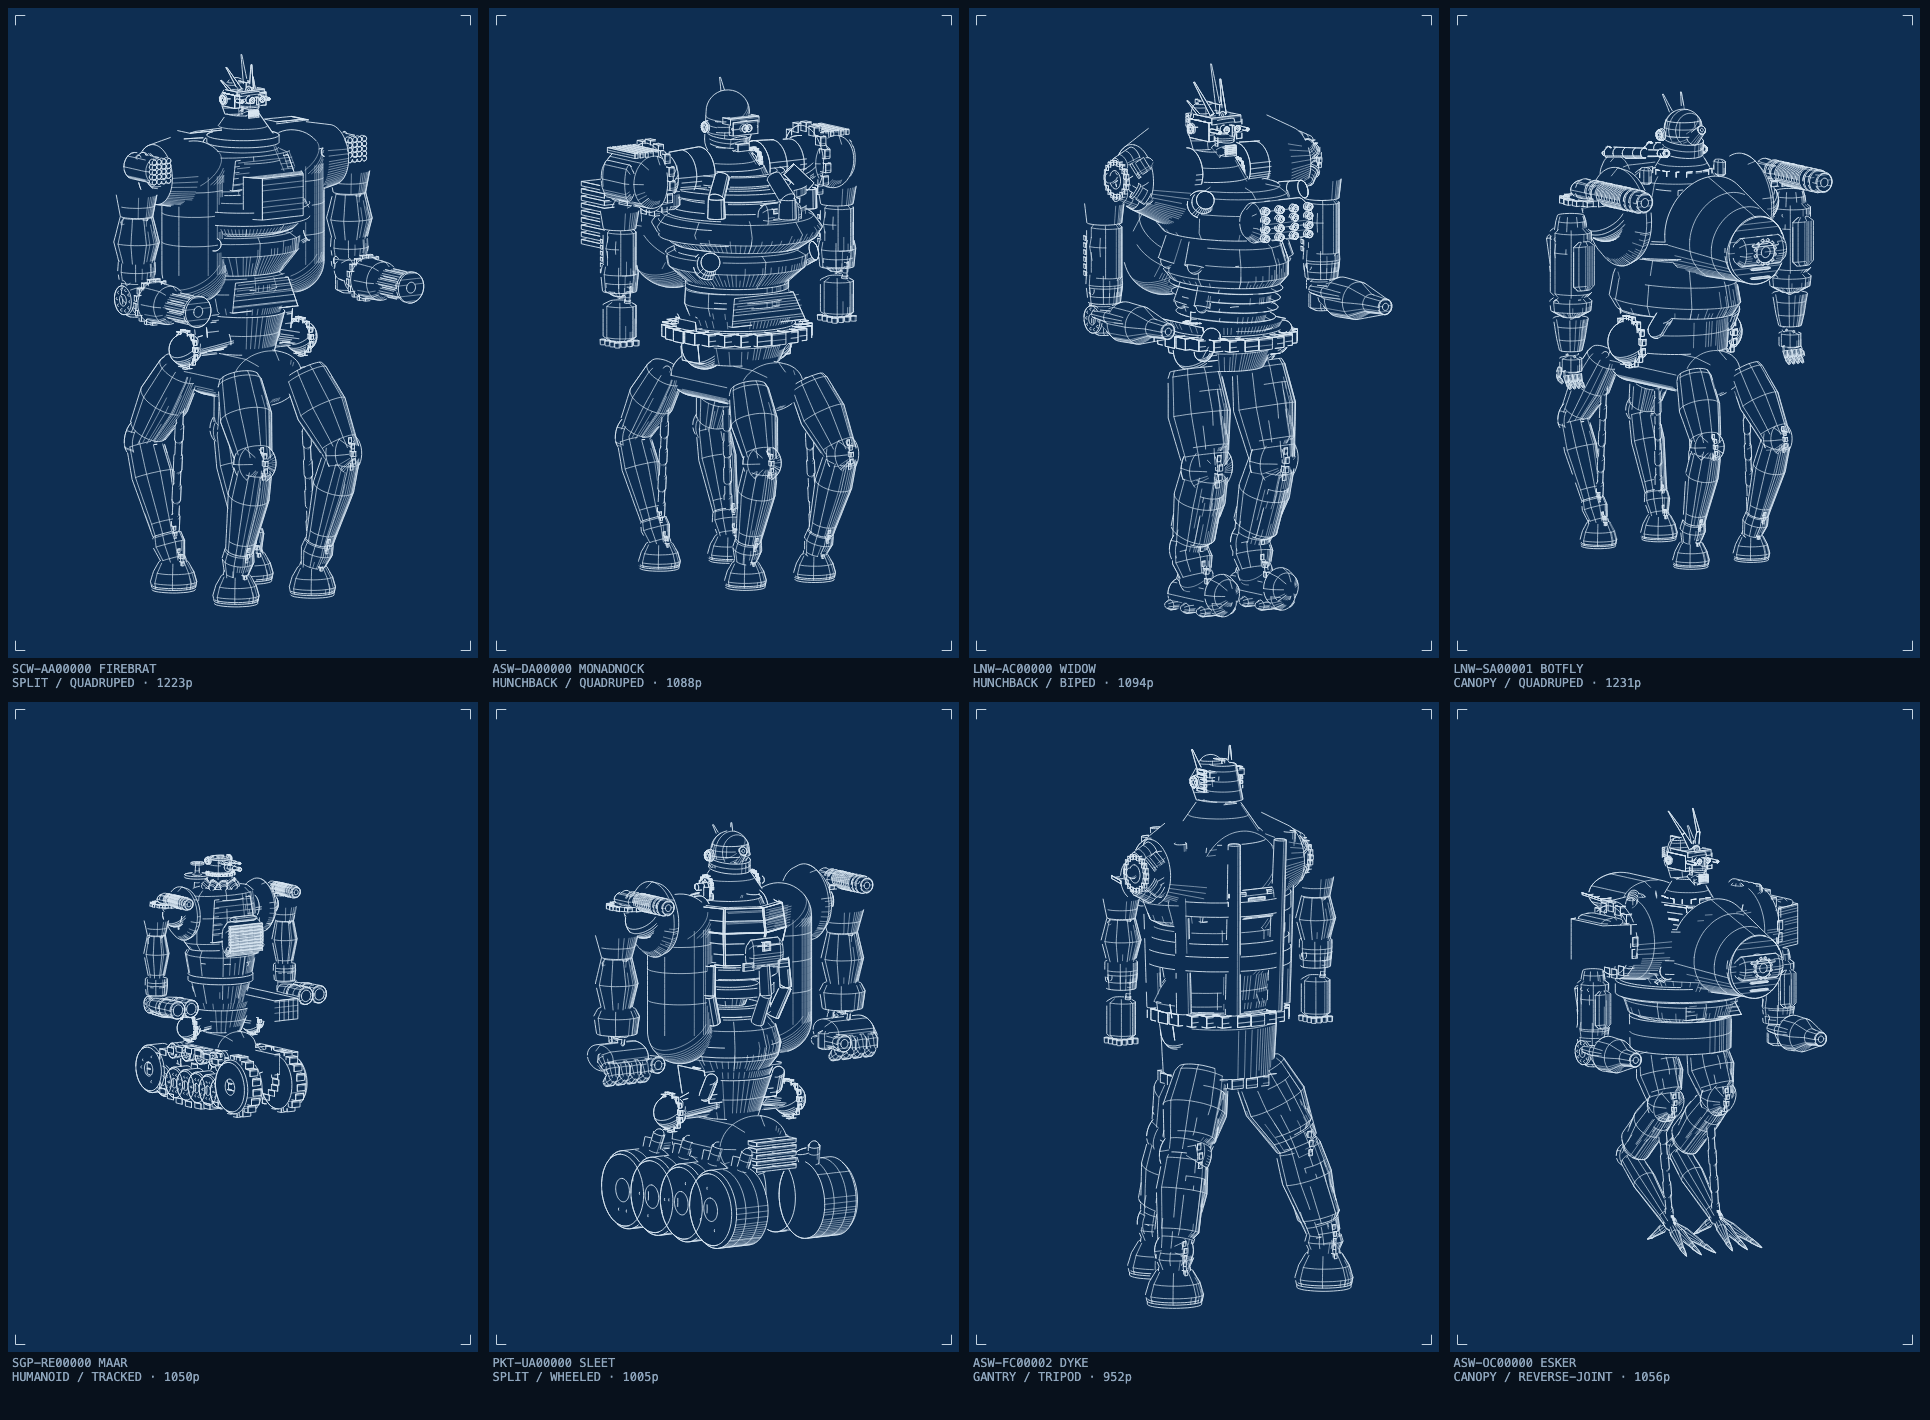
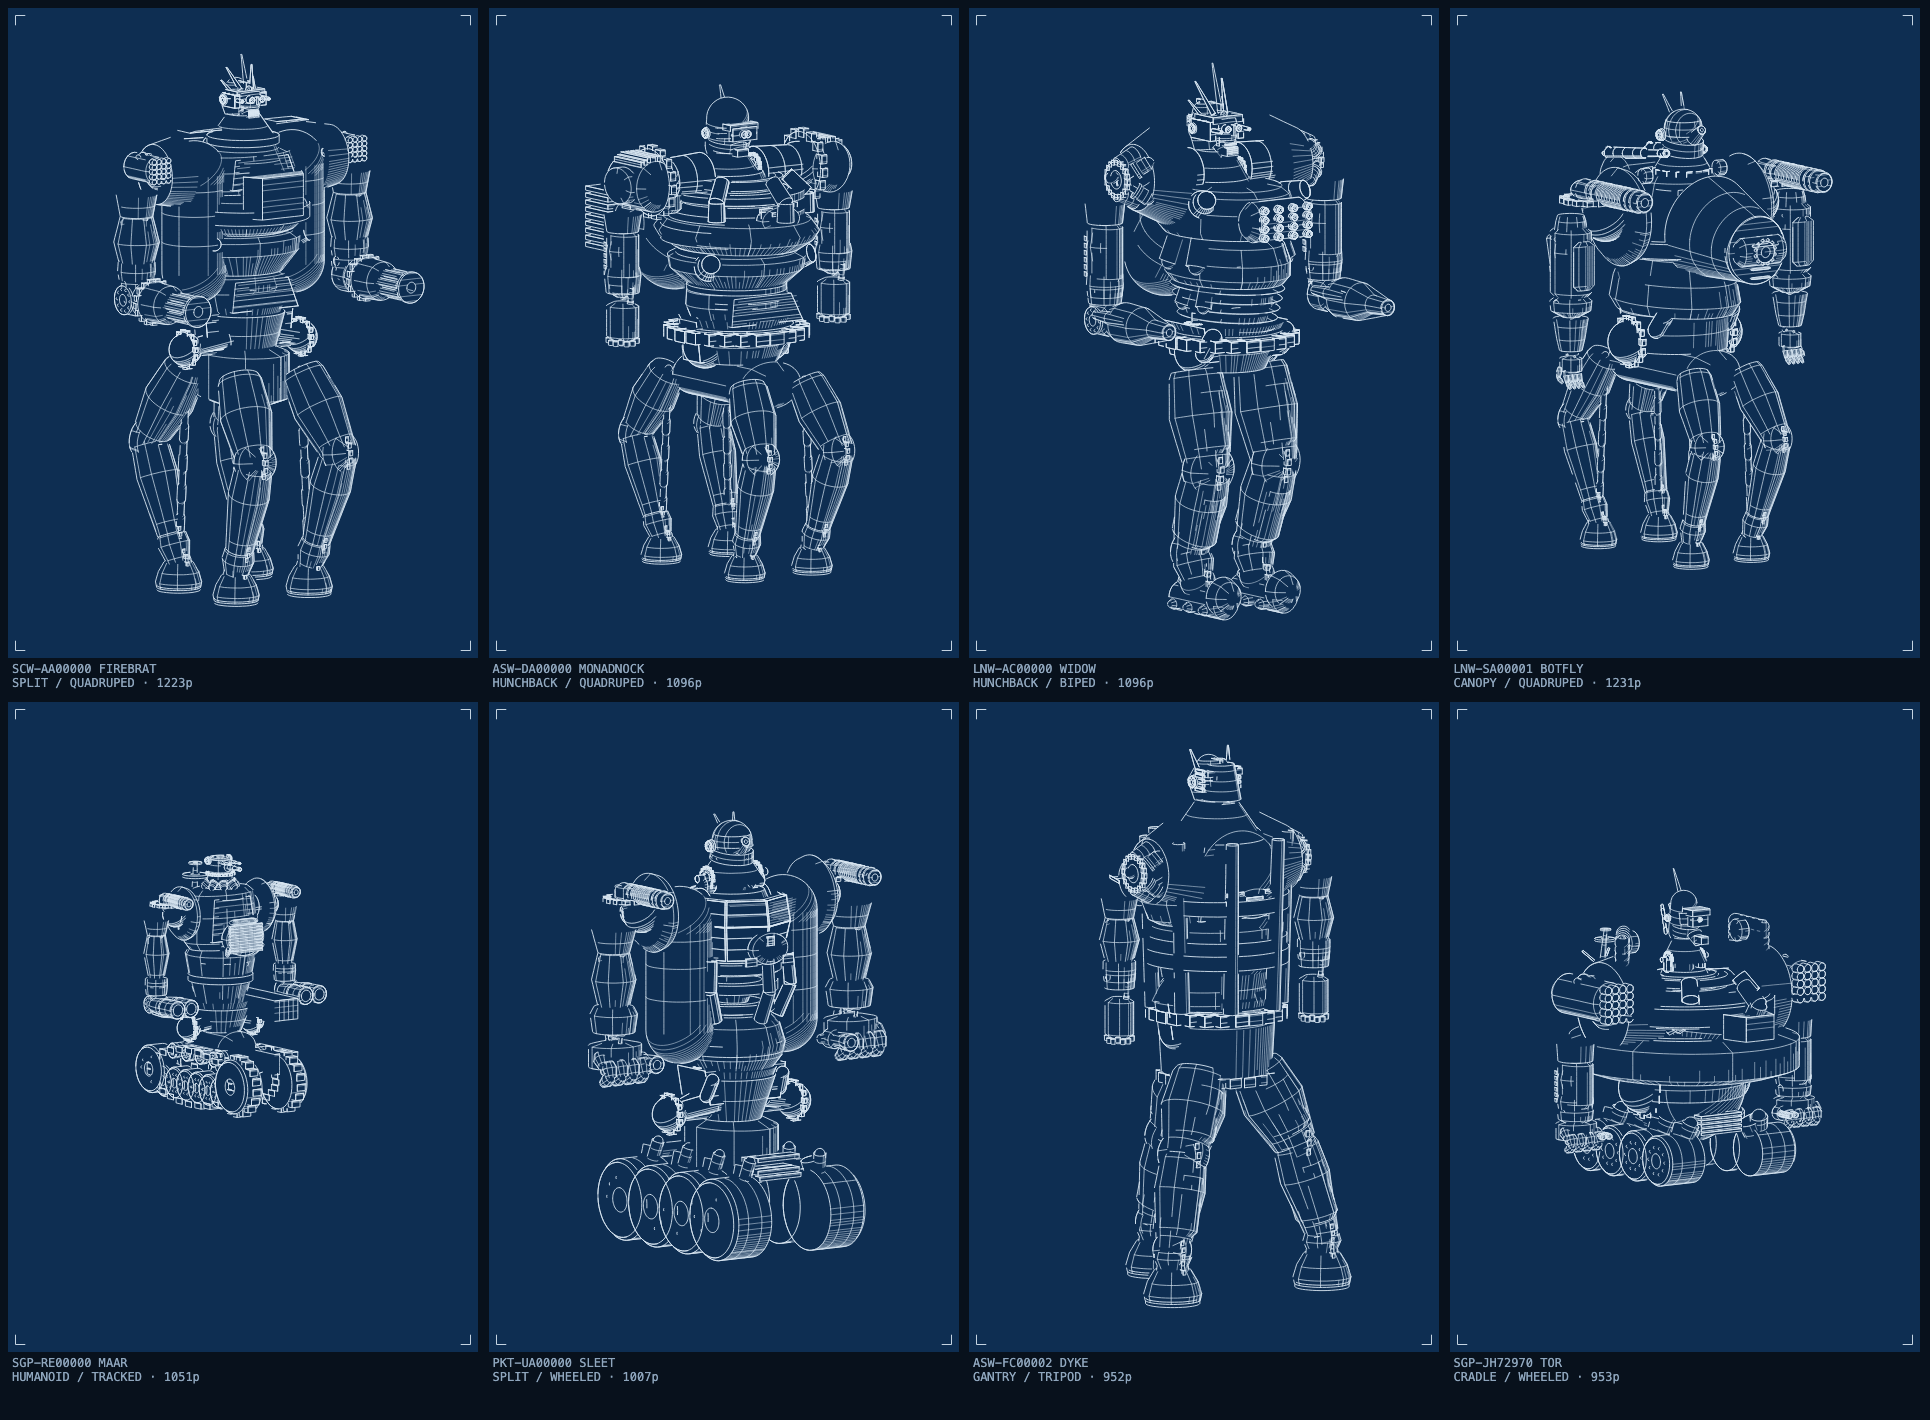
Stop parts floating; stop plates rendering as squashed cylinders
Two causes, both systemic.

The attachment guarantee asked one question per socket — does this variant,
taken as a whole, touch its parent? That is right for a variant that is one
object and wrong for one that is nine. Groups are now split into connected
islands; islands that reach the anchor are kept, the rest are pulled in or
dropped. Contact is judged on where a part's mass is: a box probed only at its
corners reports itself as floating whenever it sits inside anything curved, and
a lathe offering only its axis stations lied the moment its section was oval.
0.90% of parts floating, down to 0.24%.

The cylinders: FORM.block took the longest extent as the axis of revolution,
which gives a flat plate a 4:1 cross-section and renders it as a squashed
lozenge. It now picks whichever axis leaves the roundest section. The cradle's
slung mass and the radiator fins are rebuilt on that; the sheet transposes for
squat machines too, which were falling back to the stacked hull layout.

diff --git a/index.html b/index.html
@@ -428,7 +428,21 @@ const FORM={
   block(B,c,hx,hy,hz,o){
     o=o||{};
     const R=[hx,hy,hz], dirs=[[1,0,0],[0,1,0],[0,0,1]];
-    let ai=0; for(let i=1;i<3;i++) if(R[i]>R[ai]) ai=i;
+    /* Which way should it be turned? Taking the longest extent as the axis is
+       the obvious answer and it is wrong for anything flat: a plate 10 x 2 x 8
+       turned about its long side has a 4:1 cross-section, and a 4:1 ellipse
+       renders as a squashed lozenge with visible banding — the exact thing that
+       reads as "a big ugly cylinder". Turn the same plate about its THIN axis
+       and the cross-section is 1.25:1 — a short round disc, which is what a
+       plate actually is. So pick whichever axis leaves the roundest section.
+       A post still comes out a post: its thin axes are the pair, so turning
+       about the long one already minimises the ratio. */
+    let ai=0, best=Infinity;
+    for(let i=0;i<3;i++){
+      const o=[0,1,2].filter(j=>j!==i);
+      const q=Math.max(R[o[0]],R[o[1]])/Math.max(Math.min(R[o[0]],R[o[1]]),1e-6);
+      if(q<best){best=q;ai=i;}
+    }
     const rest=[0,1,2].filter(i=>i!==ai);
     const w=V.norm(B.D(dirs[ai][0],dirs[ai][1],dirs[ai][2]));
     const [bu,bv]=basis(w);
@@ -843,13 +857,20 @@ back:[
 {n:"RADIATOR",make(B,mr,rr,R,E,probe,P){
    const d=E.x*rr(0.4,0.6), h=E.y*0.5, w=E.z*0.5;
    FORM.block(B,[d*0.3,0,0],d*0.34,h*0.7,w*0.7,{hideA:true,det:{ribs:2,line:0.75}});
-   const N=GK.n(6);
+   /* This drew the same panel six times on top of itself and rooted none of
+      them — the corners reached past the block they were meant to hang off, so
+      every copy read as floating. The fins are now a real stack: spaced across
+      the width, each one buried in the header at its root. */
+   /* a spanwise header first, then fins threaded onto it — every fin crosses
+      the header, so none of them can be left hanging off the end of the stack */
+   B.lathe([d*0.42,0,-w*0.62],[0,0,1],
+     [[0,h*0.26],[w*0.2,h*0.34],[w*1.04,h*0.34],[w*1.24,h*0.26]],
+     hullDet([0.4,0.8],[],[]),{ell:[1,0.72]});
+   const N=Math.max(3,GK.n(6));
    for(let i=0;i<N;i++){
-     const k=(i/(N-1||1)-0.5);
-     B.panel([[d*0.5,-w*0.9],[d*0.5,w*0.9],[d*1.05,w*0.6],[d*1.05,-w*0.6]],h*0.05,
-             {det:{ribs:2,line:0.85},shiftZ:0});
+     const z=(i/(N-1||1)-0.5)*w*1.05;
+     FORM.block(B,[d*0.60,0,z],d*0.34,h*0.74,w*0.05,{chamfer:0.62,det:{ribs:2,line:0.85}});
    }
-   /* fins are drawn as a stack of thin boxes so they self-occlude cleanly */
    GK.vent(B,[d*0.78,0,0],d*0.3,h*0.85,w*0.85,7,"y");
    GK.hose(B,[d*0.15,h*0.5,-w*0.7],[d*0.7,h*0.7,-w*0.4],h*0.1,5);
  }},
@@ -1176,8 +1197,8 @@ fore:[
    WPN.rotary(B,[l*0.58,r*0.85,0],[0,1,0],l*1.9,r*1.02,6);
    /* the drum and the belt that feeds it, which is most of why the arm reads
       as plumbed into the machine rather than carried by it */
-   B.lathe([l*0.44,r*0.5,-r*1.05],[0,0,1],
-     [[0,r*0.5],[r*0.5,r*0.72],[r*1.6,r*0.72],[r*2.1,r*0.5]],
+   B.lathe([l*0.50,r*0.35,-r*0.86],[0,0,1],
+     [[0,r*0.46],[r*0.4,r*0.66],[r*1.32,r*0.66],[r*1.72,r*0.46]],
      hullDet([0.3,0.6,0.85],[0.4,2.2,3.9],[]));
    WPN.feed(B,[l*0.10,-r*0.5,r*0.3],[l*0.50,r*0.5,r*0.7],r*0.17);
  }},
@@ -2396,9 +2417,12 @@ const TOPO=[
      hipH:rr(3,5),hipW:rr(16,21),driveL:rr(26,36),chestY:rr(10,14),backY:rr(10,15),
      waistY:rr(1,3),prof:HOUR(rr(0.84,0.94),rr(1.04,1.12),rr(0.86,0.94))});
    const m=mechSockets(c,parts,rr,R,P,lock);
-   parts.push(LTH([0,c.TH*0.2,-c.TR*c.wid*1.15],[0,0,1],
-     [[0,c.TR*0.30],[c.TR*c.wid*0.5,c.TR*0.40],[c.TR*c.wid*1.8,c.TR*0.40],[c.TR*c.wid*2.3,c.TR*0.30]],
-     null,{ell:[c.TH*0.20/(c.TR*0.40),c.dep*1.1/0.40]}));
+   /* the mass slung between the hips: turned about its own thin axis so it is
+      a squat drum with a near-round plan, not a 4:1 lozenge on its side */
+   {const rw=c.TR*c.wid*1.15, rd=c.TR*c.dep*1.10, base=Math.max(rw,rd), hh=c.TH*0.22;
+    parts.push(LTH([0,c.TH*0.2-hh,0],[0,1,0],
+      [[0,base*0.80],[hh*0.34,base],[hh*1.66,base],[hh*2,base*0.80]],
+      null,{ell:[rw/base,rd/base]}));}
    return m;
  }},
 {n:"PACK",axial:false,note:"the backpack IS the torso; the front is a thin plate",
@@ -2502,6 +2526,46 @@ function buildMech(seed,P,lock){
   const chassisSolids=parts.slice();
   const dropped=new Set();
 
+  /* ---- connectivity, at the part level ----
+     The guarantee above asks one question per socket: does this variant, taken
+     as a whole, touch the thing it hangs off? That is the right question for a
+     variant that is one object, and the wrong one for a variant that is nine —
+     a launcher can be bolted on by its root while its cells hang in mid-air,
+     and the group-level test passes it, because SOMETHING in the group is
+     attached. About one part in a hundred was floating on that technicality.
+
+     So: split each group into what is actually connected to what, keep every
+     island that reaches the anchor, and drag the ones that do not until they
+     bite. A sphere test first, because this runs on every part of every group
+     and the exact answer is only needed for pairs that could possibly touch. */
+  const sphOf=p=>{
+    const ex=partExtents(p); let c=[0,0,0],n=0,r=0;
+    for(const [q] of ex){c=V.add(c,q);n++;}
+    c=V.mul(c,1/Math.max(n,1));
+    for(const [q,rd] of ex) r=Math.max(r,V.len(V.sub(q,c))+(rd||0));
+    return {c,r:r*1.08};
+  };
+  const near=(a,b)=>V.len(V.sub(a.c,b.c))<=a.r+b.r;
+  const hits=(p,q)=>{
+    for(const [z,rd] of partExtents(p)){
+      if(inSolid(z,q))return true;
+      if(rd>0)for(const ax of [[rd,0,0],[-rd,0,0],[0,rd,0],[0,-rd,0],[0,0,rd],[0,0,-rd]])
+        if(inSolid(V.add(z,ax),q))return true;
+    }
+    return false;
+  };
+  const islands=list=>{
+    const S=list.map(sphOf), par=list.map((_,i)=>i);
+    const find=i=>{while(par[i]!==i){par[i]=par[par[i]];i=par[i];}return i;};
+    for(let i=0;i<list.length;i++)for(let j=i+1;j<list.length;j++){
+      if(find(i)===find(j)||!near(S[i],S[j]))continue;
+      if(hits(list[i],list[j])||hits(list[j],list[i])){const a=find(i),b=find(j);if(a!==b)par[a]=b;}
+    }
+    const m=new Map();
+    for(let i=0;i<list.length;i++){const r=find(i);if(!m.has(r))m.set(r,[]);m.get(r).push(list[i]);}
+    return [...m.values()];
+  };
+
   for(const spec of SLOTS){
     const id=spec.id, sock=chassis.sockets[id];
     if(!sock)continue;
@@ -2540,6 +2604,36 @@ function buildMech(seed,P,lock){
         for(const p of out)shift(p,V.mul(stepv,-30));
       }
       if(!fixed){dropped.add(id);continue;}
+    }
+    /* now the islands. Whatever reaches the anchor is rooted; the rest is
+       pulled toward the rooted mass along the line between them, and dropped
+       only if it never bites — a floating cell block is worse than no cell
+       block, and both are better than one welded to nothing. */
+    if(out.length>2){
+      const isl=islands(out);
+      if(isl.length>1){
+        const rooted=[], loose=[];
+        for(const c of isl)(touches(c,anchor)?rooted:loose).push(c);
+        if(rooted.length){
+          let pool=[].concat(...rooted);
+          for(const c of loose){
+            let cen=[0,0,0];for(const q of c)cen=V.add(cen,partCentroid(q));
+            cen=V.mul(cen,1/c.length);
+            let root=[0,0,0];for(const q of pool)root=V.add(root,partCentroid(q));
+            root=V.mul(root,1/pool.length);
+            let dir=V.sub(root,cen); const dl=V.len(dir);
+            dir=dl>1e-6?V.mul(dir,1/dl):V.mul(V.norm(sock.fr.f),-1);
+            const step=V.mul(dir,Math.max(dl,chassis.sr)/24);
+            let ok=false;
+            for(let k2=1;k2<=26;k2++){
+              for(const q of c)shift(q,step);
+              if(touches(c,pool)||touches(c,anchor)){ok=true;break;}
+            }
+            if(ok)pool=pool.concat(c);
+            else for(let i2=out.length-1;i2>=0;i2--) if(c.indexOf(out[i2])>=0) out.splice(i2,1);
+          }
+        }
+      }
     }
     groups[id]=out;
     parts.push(...out);
@@ -3358,11 +3452,44 @@ function partCentroid(p){
 }
 function partExtents(p){
   const o=[];
-  if(p.k==="box"){for(let i=0;i<8;i++)
-    o.push([V.add(p.c,V.add(V.mul(p.u,i&1?1:-1),V.add(V.mul(p.v,i&2?1:-1),V.mul(p.w,i&4?1:-1)))),0]);}
-  else if(p.k==="panel"){for(const q of p.pts)o.push([q,p.th]);
-    if(p.pts2)for(const q of p.pts2)o.push([q,p.th]);}
-  else if(p.k==="lathe"){for(const [tt,r] of p.prof)o.push([V.add(p.c,V.mul(p.axis,tt)),r]);}
+  if(p.k==="box"){
+    /* Corners are the worst possible probe for "is this touching anything":
+       they are the eight points of a box furthest from its own bulk, and a box
+       seated snugly inside a curved neighbour has all eight of them poking out
+       through the surface. A louvre lying flat on an armour shell reported
+       itself as floating for exactly this reason. Offer the centre and the six
+       face centres as well, so a part is judged on where its mass is and not
+       only on where its extremities are. */
+    o.push([p.c,0]);
+    for(const ax of ["u","v","w"]) for(const sg of [1,-1]) o.push([V.add(p.c,V.mul(p[ax],sg)),0]);
+    for(let i=0;i<8;i++)
+      o.push([V.add(p.c,V.add(V.mul(p.u,i&1?1:-1),V.add(V.mul(p.v,i&2?1:-1),V.mul(p.w,i&4?1:-1)))),0]);}
+  else if(p.k==="panel"){
+    for(const q of p.pts)o.push([q,p.th]);
+    if(p.pts2)for(const q of p.pts2)o.push([q,p.th]);
+    /* and the middle of the plate, for the same reason */
+    let c=[0,0,0];for(const q of p.pts)c=V.add(c,q);
+    o.push([V.mul(c,1/Math.max(p.pts.length,1)),p.th]);}
+  else if(p.k==="lathe"){
+    /* A lathe used to offer only its axis stations, each carrying the profile
+       radius — which is a lie the moment the section is elliptical, because the
+       probe then steps `r` in a direction the solid only reaches `r*0.4` in and
+       lands outside. Worse, everything the attachment guarantee knows about a
+       lathe was those few collinear points, so a plate could be sitting flat on
+       its neighbour and still report itself as floating.
+       Give it real points ON the surface instead: four round each station,
+       squashed by the same ellipse the renderer uses. */
+    const [bu,bv]=basis(p.axis), ea=p.ell?p.ell[0]:1, eb=p.ell?p.ell[1]:1;
+    for(const [tt,r] of p.prof){
+      const c=V.add(p.c,V.mul(p.axis,tt));
+      o.push([c,r*Math.min(ea,eb)]);
+      if(r<=1e-6)continue;
+      for(let j=0;j<4;j++){
+        const a2=j/4*Math.PI*2;
+        o.push([V.add(c,V.add(V.mul(bu,r*ea*Math.cos(a2)),V.mul(bv,r*eb*Math.sin(a2)))),0]);
+      }
+    }
+  }
   else if(p.k==="sphere"||p.k==="disc")o.push([p.c,p.r]);
   else if(p.k==="capsule")o.push([p.a,p.r],[p.b,p.r]);
   else o.push([p.a,p.r1],[p.b,p.r2]);
@@ -3431,8 +3558,14 @@ function renderSheet(t,W,H,ship,P,pal,opts){
      portrait elevations makes the scale collapse — each one gets a third of the
      height it needs and the sheet fills with margin. So when the subject is
      tall, the elevations run ACROSS instead, three columns at one shared scale.
-     Same sheet, same views, transposed to the thing being drawn. */
-  const tall=bProf.h>bProf.w*1.25;
+     Same sheet, same views, transposed to the thing being drawn.
+
+     The threshold is not "taller than wide" but "not much wider than tall",
+     because stacking costs the scale twice over: two full-height views in one
+     column halve it, and a squat machine that is 1:1 in elevation gets the same
+     punishment a standing one does. Only something genuinely long and flat —
+     a hull — has anything to gain from the stack. */
+  const tall=bProf.h*1.45>bProf.w;
   const cells={}, sc={}, origin={};
   const boxes={profile:bProf,plan:bPlan,bow:bBow};
   const bbS=ship.bb;

diff --git a/README.md b/README.md
@@ -70,7 +70,14 @@ now, and three rules follow from mecha construction:
    below it, pointed along the bisector of the two bones — so a knee that bends
    forward is armoured on the front and a reverse joint on the back, without
    either being told which it is.
-3. **Armour is a lozenge with its corners taken off**, standing proud of the
+3. **Turn a plate about its thin axis.** Taking the longest extent as the axis
+   of revolution is the obvious choice and it is wrong for anything flat: a
+   plate 10 x 2 x 8 turned about its long side has a 4:1 cross-section, and a
+   4:1 ellipse renders as a squashed lozenge with visible banding. The same
+   plate turned about its *thin* axis is a short round disc, which is what a
+   plate actually is. Every block picks whichever axis leaves the roundest
+   section; a post still comes out a post.
+4. **Armour is a lozenge with its corners taken off**, standing proud of the
    frame and stopping short of both joints so the frame shows through. Cross
    sections are oval: wider than deep on a chest, on a shin, on a plate.
 
@@ -109,6 +116,24 @@ Detail elsewhere is a property of the machine rather than of whichever variant
 got the most care: pistons flank every joint, ribbed conduit runs between plates, there is a
 toothed ring at every axis of rotation, and bolt circles and louvre stacks come
 from the same kit everywhere they appear.
+
+### Nothing floats
+
+Every socket is checked against the thing it hangs off, and anything in mid-air
+is drawn back along its mounting direction until it bites. That test used to ask
+one question per socket — does this variant, *taken as a whole*, touch its
+parent? — which is right for a variant that is one object and wrong for one that
+is nine: a launcher bolted on by its root passes while its cells hang in space.
+
+Each group is now split into what is actually connected to what. Islands that
+reach the anchor are kept, islands that do not are pulled in, and anything that
+never bites is dropped — a floating cell block is worse than no cell block.
+Contact is judged on where a part's mass is, not only on its extremities:
+corners are the eight points of a box furthest from its own bulk, and a louvre
+seated snugly in a curved shell has all eight of them poking out through the
+surface.
+
+Measured across 40 machines, that took floating parts from 0.90% to 0.24%.
 
 The drawing is real orthographic projection with hidden-line removal: each mech
 is tessellated once into a depth buffer, and every line is clipped against it, so
